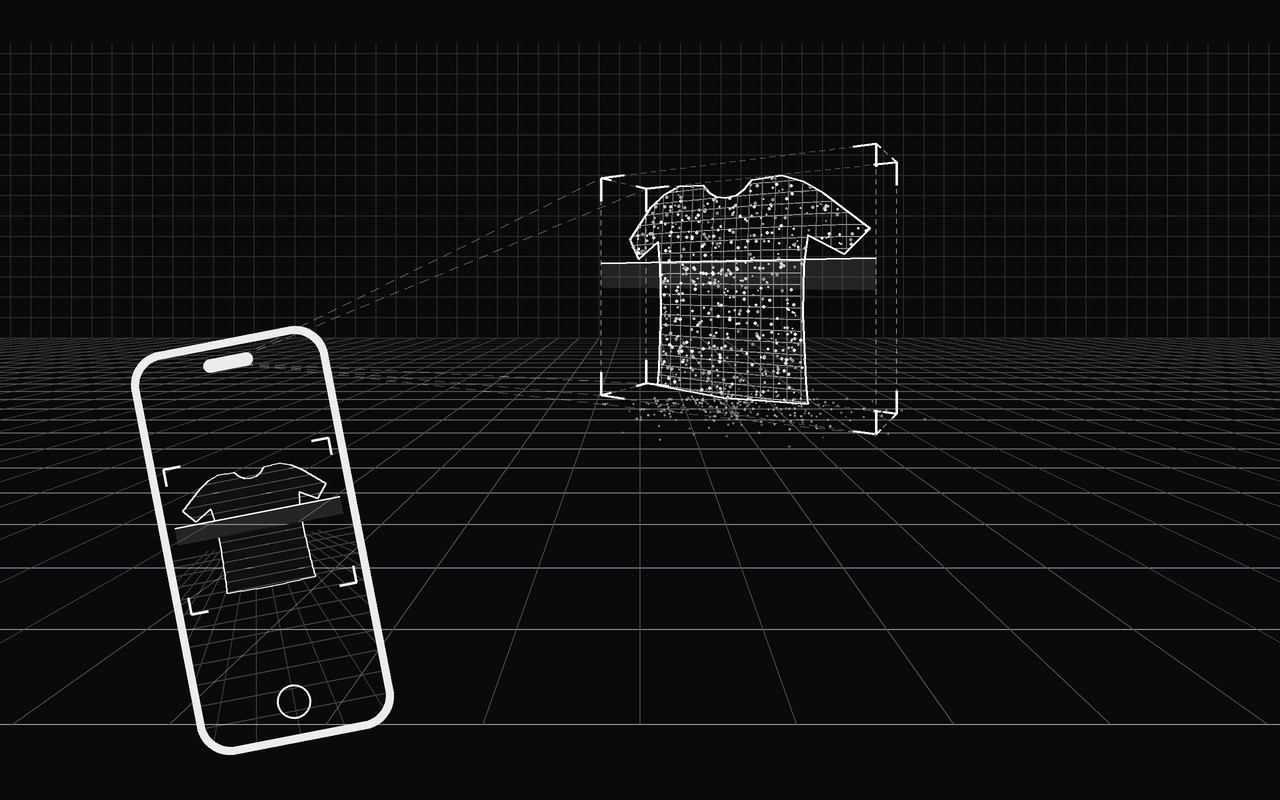
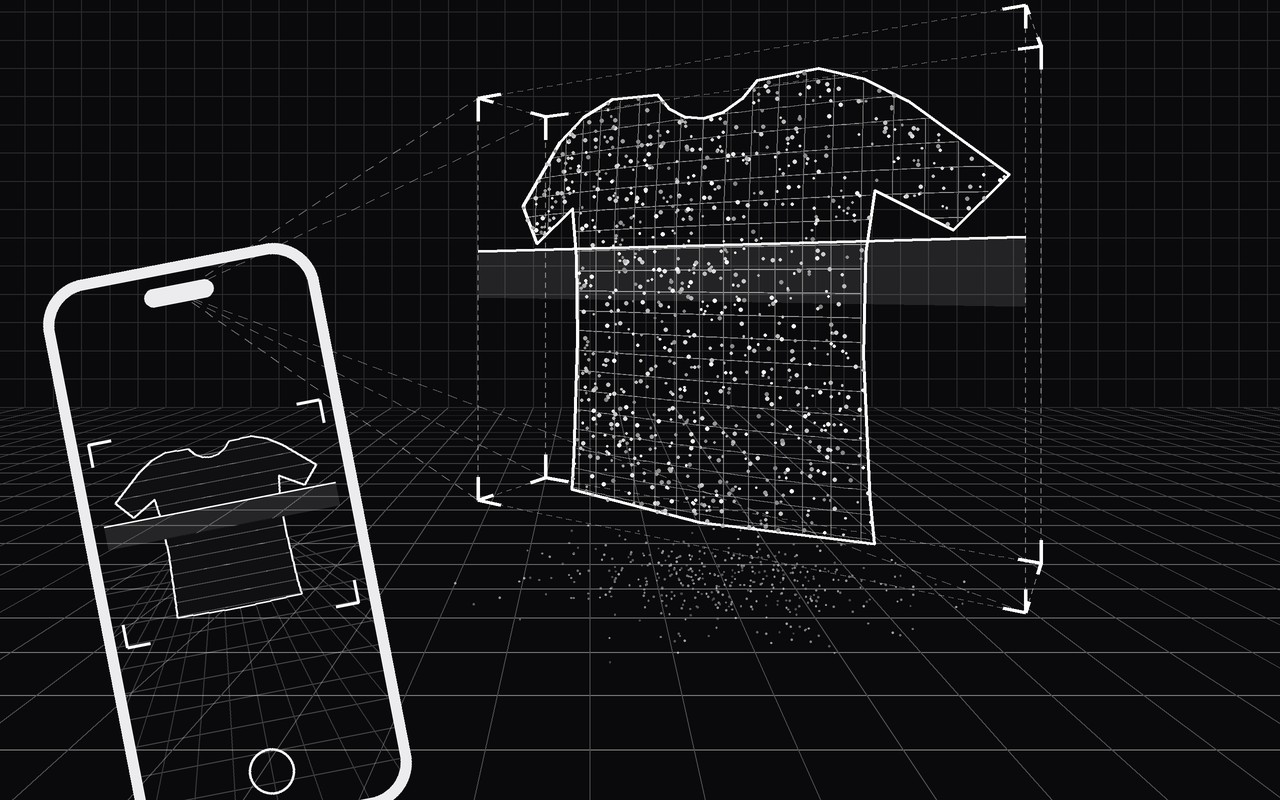
AR мерч: обложка при наведении — футболка, рамка и телефон намного крупнее

diff --git a/исходники/ar-hover-cover.py b/исходники/ar-hover-cover.py
@@ -14,7 +14,7 @@ img = Image.new('RGBA', (W, H), BG + (255,))
 def layer(): return Image.new('RGBA', (W, H), (0, 0, 0, 0))
 
 # простая перспектива: камера в начале координат смотрит вдоль z
-F, CX, CY = 1150, 1280, 560
+F, CX, CY = 1600, 1180, 560
 def P(x, y, z): return (CX + F * x / z, CY - F * y / z)
 
 def line3(dr, a, b, color, width):
@@ -27,7 +27,7 @@ def dashed(dr, p, q, color, width, dash=18, gap=14):
         if t0 >= 1: break
         dr.line([(p[0] + (q[0]-p[0])*t0, p[1] + (q[1]-p[1])*t0), (p[0] + (q[0]-p[0])*t1, p[1] + (q[1]-p[1])*t1)], fill=color, width=width)
 
-FLOOR, WALL = -1.7, 17.0
+FLOOR, WALL = -2.7, 17.0
 
 # сетка: пол и задняя стена, вдали бледнее
 g = layer(); dg = ImageDraw.Draw(g)
@@ -47,7 +47,7 @@ while y <= 7:
 img.alpha_composite(g)
 
 # футболка: силуэт спереди, объем — изгиб по глубине; рисуется сеткой из линий
-SX, SY, SZ, SC, YAW = 1.3, -.05, 7.6, 1.15, math.radians(34)
+SX, SY, SZ, SC, YAW = 1.25, -.1, 7.2, 1.55, math.radians(34)
 HALF = [(0, .95), (.12, .97), (.22, 1.03), (.30, 1.12), (.62, 1.14), (.84, 1.06), (1.04, .93),
         (1.46, .56), (1.24, .30), (.90, .50), (.86, .20), (.85, -.3), (.88, -1.0), (.90, -1.22), (0, -1.25)]
 # правая половина от ворота по часовой: ворот дугой, плечо, рукав с четким краем, бок, подол
@@ -95,45 +95,45 @@ def mesh(dr, alpha_h, alpha_v):
 
 t = layer(); dt = ImageDraw.Draw(t)
 mesh(dt, 150, 110)
-dt.line([S(x, y) for x, y in OUT + [OUT[0]]], fill=(255, 255, 255, 255), width=4, joint='curve')   # контур
-for _ in range(900):                             # облако точек по поверхности
+dt.line([S(x, y) for x, y in OUT + [OUT[0]]], fill=(255, 255, 255, 255), width=6, joint='curve')   # контур
+for _ in range(1500):                             # облако точек по поверхности
     x, y = random.uniform(-1.5, 1.5), random.uniform(-1.3, 1.2)
     if inside(x, y):
-        px, py = S(x, y); r = random.choice((1.6, 2.2, 3))
+        px, py = S(x, y); r = random.choice((2.2, 3, 4))
         dt.ellipse([px - r, py - r, px + r, py + r], fill=(255, 255, 255, random.randint(120, 255)))
 img.alpha_composite(t)
 
 # линия сканирования: светлая полоса и четкая линия поперек футболки
 scan_y = .25
 sc = layer(); ds = ImageDraw.Draw(sc)
-a1, a2 = P(*R(-1.6, scan_y, -.5)), P(*R(1.6, scan_y, -.5))      # полоса идет по передней стороне рамки
-b1, b2 = P(*R(-1.6, scan_y - .3, -.5)), P(*R(1.6, scan_y - .3, -.5))
+a1, a2 = P(*R(-1.56, scan_y, -.42)), P(*R(1.56, scan_y, -.42))      # полоса идет по передней стороне рамки
+b1, b2 = P(*R(-1.56, scan_y - .3, -.42)), P(*R(1.56, scan_y - .3, -.42))
 ds.polygon([a1, a2, b2, b1], fill=(255, 255, 255, 26))
-ds.line([a1, a2], fill=(255, 255, 255, 255), width=4)
+ds.line([a1, a2], fill=(255, 255, 255, 255), width=6)
 img.alpha_composite(sc)
 
 # рамка-объем вокруг футболки: пунктир, уголки сплошные
-C = [R(x, y, z) for z in (-.5, .5) for y in (-1.38, 1.3) for x in (-1.6, 1.6)]
+C = [R(x, y, z) for z in (-.42, .3) for y in (-1.36, 1.24) for x in (-1.56, 1.56)]
 E = [(0, 1), (2, 3), (0, 2), (1, 3), (4, 5), (6, 7), (4, 6), (5, 7), (0, 4), (1, 5), (2, 6), (3, 7)]
 b = layer(); db = ImageDraw.Draw(b)
 for i, j in E: dashed(db, P(*C[i]), P(*C[j]), (255, 255, 255, 120), 2, 10, 10)
 for i, j in E:
     for a_, c_ in ((i, j), (j, i)):
         p, q = P(*C[a_]), P(*C[c_]); L = math.dist(p, q); k = min(.22, 46 / L)
-        db.line([p, (p[0] + (q[0]-p[0])*k, p[1] + (q[1]-p[1])*k)], fill=(255, 255, 255, 255), width=5)
-for _ in range(260):                             # точки на полу под футболкой
+        db.line([p, (p[0] + (q[0]-p[0])*k, p[1] + (q[1]-p[1])*k)], fill=(255, 255, 255, 255), width=7)
+for _ in range(420):                             # точки на полу под футболкой
     x, z = random.gauss(SX, .8), random.gauss(SZ, .55)
     px, py = P(x, FLOOR, z); r = 1.8
     db.ellipse([px - r, py - r, px + r, py + r], fill=(255, 255, 255, random.randint(60, 160)))
 img.alpha_composite(b)
 
 # телефон: впереди слева, наклонен; камера — точка у верхнего края
-PW, PH = 400, 820
+PW, PH = 560, 1150
 ph = Image.new('RGBA', (PW, PH), (0, 0, 0, 0))
 d = ImageDraw.Draw(ph)
-d.rounded_rectangle([0, 0, PW - 1, PH - 1], radius=66, fill=(236, 236, 238, 255))
-d.rounded_rectangle([16, 16, PW - 17, PH - 17], radius=52, fill=(16, 16, 19, 255))
-sw, sh = PW - 32, PH - 32                        # на экране: та же сетка и футболка в рамке
+d.rounded_rectangle([0, 0, PW - 1, PH - 1], radius=92, fill=(236, 236, 238, 255))
+d.rounded_rectangle([22, 22, PW - 23, PH - 23], radius=72, fill=(16, 16, 19, 255))
+sw, sh = PW - 44, PH - 44                        # на экране: та же сетка и футболка в рамке
 scr = Image.new('RGBA', (sw, sh), (0, 0, 0, 0)); ds2 = ImageDraw.Draw(scr)
 hy = sh * .5
 for k in range(1, 14):
@@ -141,28 +141,28 @@ for k in range(1, 14):
     ds2.line([(0, yk), (sw, yk)], fill=(255, 255, 255, 60), width=2)
 for k in range(-8, 9):
     ds2.line([(sw / 2 + k * 14, hy), (sw / 2 + k * 90, sh)], fill=(255, 255, 255, 50), width=2)
-cxs, cys, ss = sw / 2, sh * .46, 100
+cxs, cys, ss = sw / 2, sh * .46, 140
 pts = [(cxs + x * ss, cys - y * ss) for x, y in OUT]
 ds2.polygon(pts, fill=(16, 16, 19, 255))
 for yv in [i * .2 - 1.2 for i in range(12)]:
     xs = [x for x in [i * .02 - 1.5 for i in range(151)] if inside(x, yv)]
     if xs: ds2.line([(cxs + xs[0] * ss, cys - yv * ss), (cxs + xs[-1] * ss, cys - yv * ss)], fill=(255, 255, 255, 90), width=2)
-ds2.line(pts + [pts[0]], fill=(255, 255, 255, 255), width=3, joint='curve')
+ds2.line(pts + [pts[0]], fill=(255, 255, 255, 255), width=4, joint='curve')
 fx0, fy0, fx1, fy1 = cxs - 1.68 * ss, cys - 1.45 * ss, cxs + 1.68 * ss, cys + 1.5 * ss
 for (x, y, dx, dy) in ((fx0, fy0, 1, 1), (fx1, fy0, -1, 1), (fx0, fy1, 1, -1), (fx1, fy1, -1, -1)):
-    ds2.line([(x, y), (x + dx * 34, y)], fill=(255, 255, 255, 255), width=5)
-    ds2.line([(x, y), (x, y + dy * 34)], fill=(255, 255, 255, 255), width=5)
+    ds2.line([(x, y), (x + dx * 46, y)], fill=(255, 255, 255, 255), width=6)
+    ds2.line([(x, y), (x, y + dy * 46)], fill=(255, 255, 255, 255), width=6)
 ys = cys - .25 * ss
-ds2.rectangle([fx0, ys, fx1, ys + 34], fill=(255, 255, 255, 28))
+ds2.rectangle([fx0, ys, fx1, ys + 46], fill=(255, 255, 255, 28))
 ds2.line([(fx0, ys), (fx1, ys)], fill=(255, 255, 255, 255), width=3)
-ds2.ellipse([sw / 2 - 34, sh - 100, sw / 2 + 34, sh - 32], outline=(255, 255, 255, 255), width=4)
-m = Image.new('L', (sw, sh), 0); ImageDraw.Draw(m).rounded_rectangle([0, 0, sw - 1, sh - 1], radius=52, fill=255)
-ph.paste(scr, (16, 16), m)
-d.rounded_rectangle([PW // 2 - 50, 34, PW // 2 + 50, 60], radius=13, fill=(236, 236, 238, 255))   # вырез камеры
+ds2.ellipse([sw / 2 - 46, sh - 136, sw / 2 + 46, sh - 44], outline=(255, 255, 255, 255), width=5)
+m = Image.new('L', (sw, sh), 0); ImageDraw.Draw(m).rounded_rectangle([0, 0, sw - 1, sh - 1], radius=72, fill=255)
+ph.paste(scr, (22, 22), m)
+d.rounded_rectangle([PW // 2 - 70, 46, PW // 2 + 70, 82], radius=18, fill=(236, 236, 238, 255))   # вырез камеры
 ang = 11
 ph = ph.rotate(ang, resample=Image.BICUBIC, expand=True)
-ox, oy = 250, 640
-a = math.radians(ang); rx, ry = 0, 47 - PH / 2           # точка камеры после поворота
+ox, oy = 70, 470
+a = math.radians(ang); rx, ry = 0, 64 - PH / 2           # точка камеры после поворота
 cam = (ox + ph.width / 2 + rx * math.cos(a) + ry * math.sin(a), oy + ph.height / 2 - rx * math.sin(a) + ry * math.cos(a))
 r = layer(); dr = ImageDraw.Draw(r)
 for i in (0, 2, 4, 6, 1):
